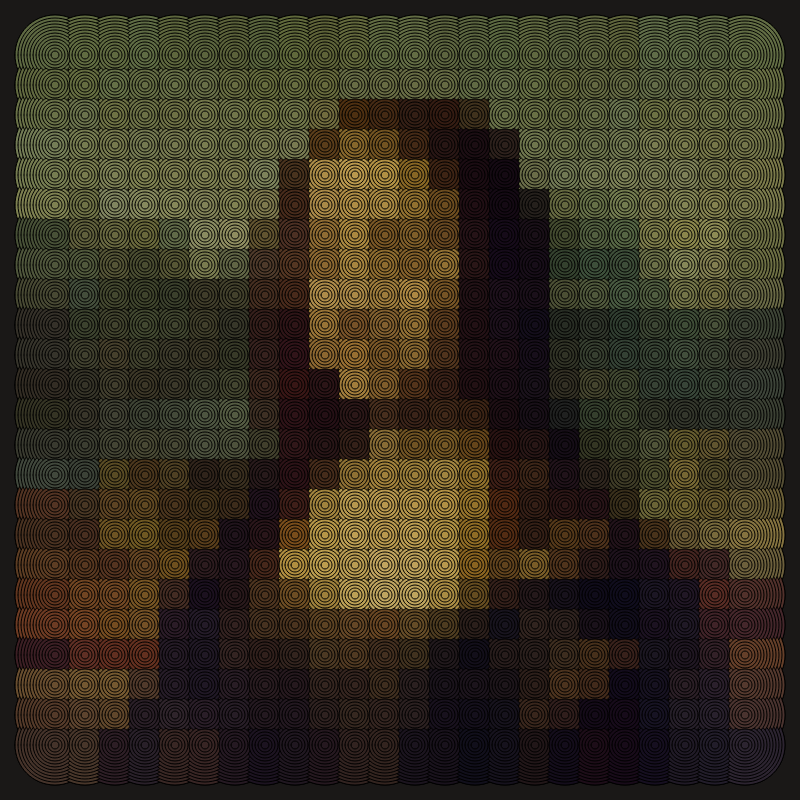
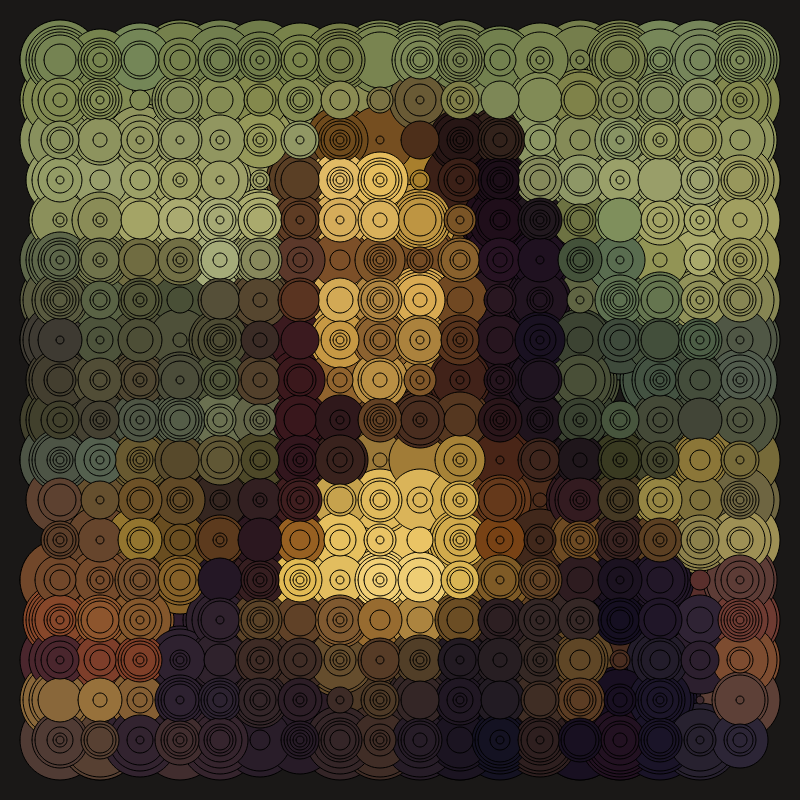
Day 4 fix value

diff --git a/day04/main.js b/day04/main.js
@@ -26,9 +26,9 @@ function setup() {
           let g = pixels[y * img.width * 4 + x * 4 + 1];
           let b = pixels[y * img.width * 4 + x * 4 + 2];
           let [H, S, V] = hsv(r, g, b);
-          fill(H, S, 0.2 + 0.8 * V);
+          fill(H, S, V);
           if (random() < 0.6) {
-            //continue;
+            continue;
           }
           circle(x + pad + 10, y + pad + 10, R); // ?
         }
